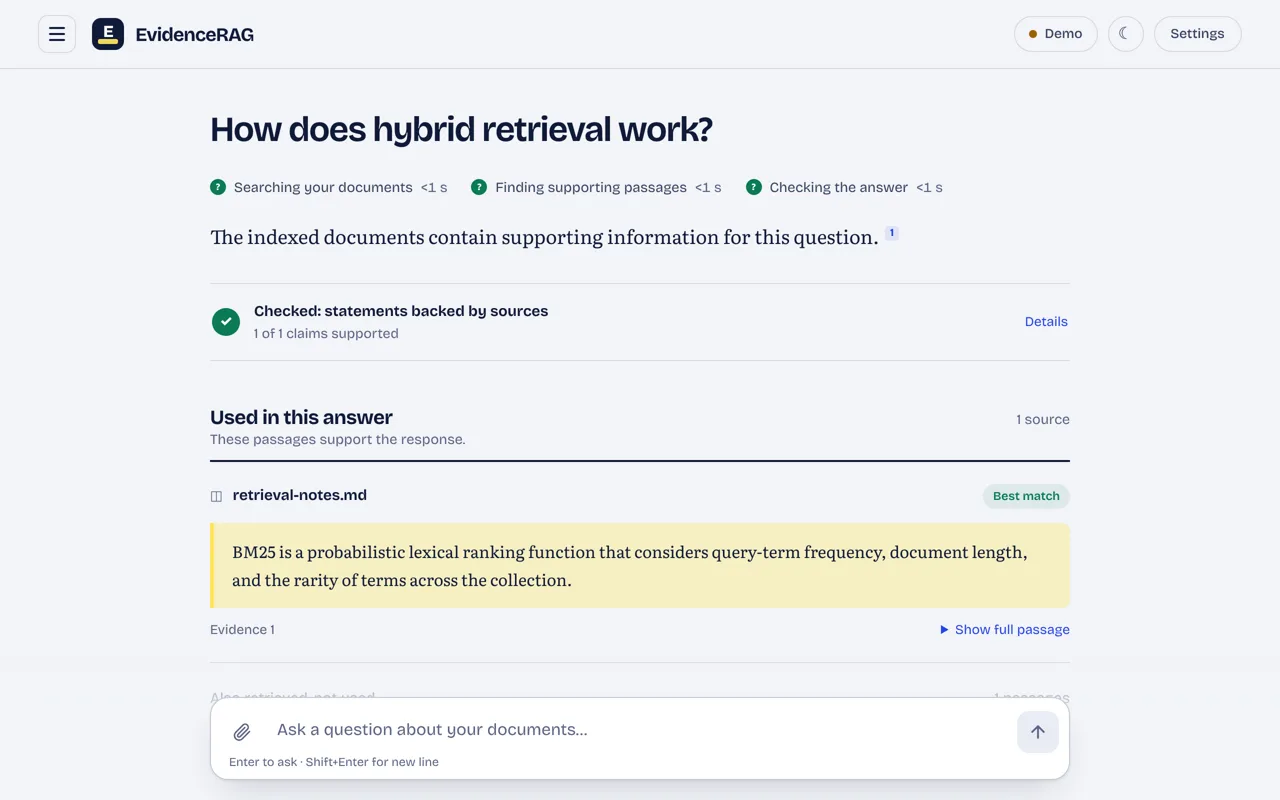
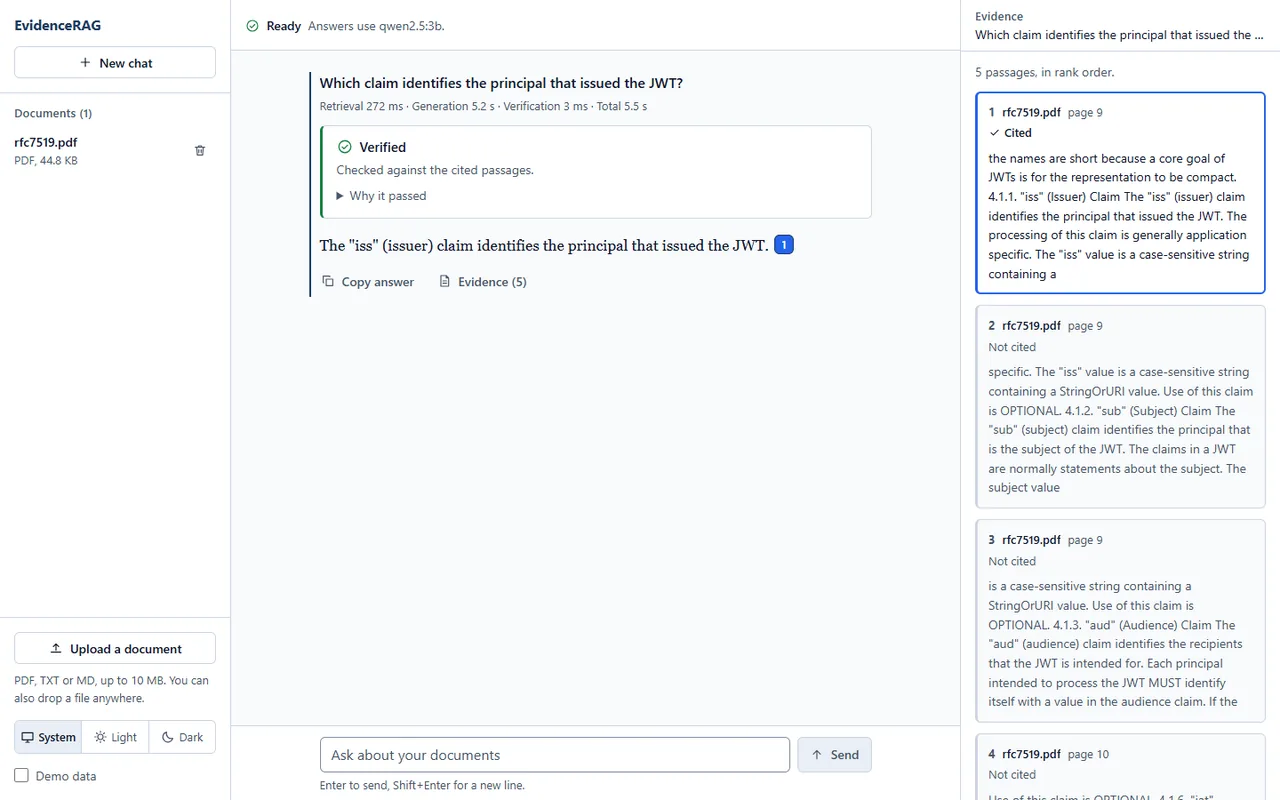
Use a real EvidenceRAG answer as its screenshot

diff --git a/src/data.ts b/src/data.ts
@@ -54,13 +54,14 @@ export const projects: { name: string; status: string; summary: string; tags: st
     summary: "Ask a question about your own documents and get an answer you can check. It finds the evidence first, answers only from it, verifies every citation, and says so when the evidence isn't there.",
     tags: ['Python', 'FastAPI', 'React', 'Ollama'],
     href: 'https://github.com/Sahil-u07/evidencerag',
-    image: 'evidencerag.webp', // the app in its built-in demo mode
+    image: 'evidencerag.webp', // a verified answer about RFC 7519
   },
   {
     name: 'RoadGuard AI', status: 'Completed',
     summary: "A university team project that spots potholes, cracks and speed bumps in road photos and video, so damage can be reported and fixed before it causes accidents.",
     tags: ['Python', 'YOLOv8', 'Streamlit', 'OpenCV'],
     href: 'https://github.com/Sahil-u07/roadguard-ai',
+    image: 'roadguard.webp', // pothole detection in the Streamlit app
   },
   {
     name: 'ProjectMUJToppers', status: 'Live',
